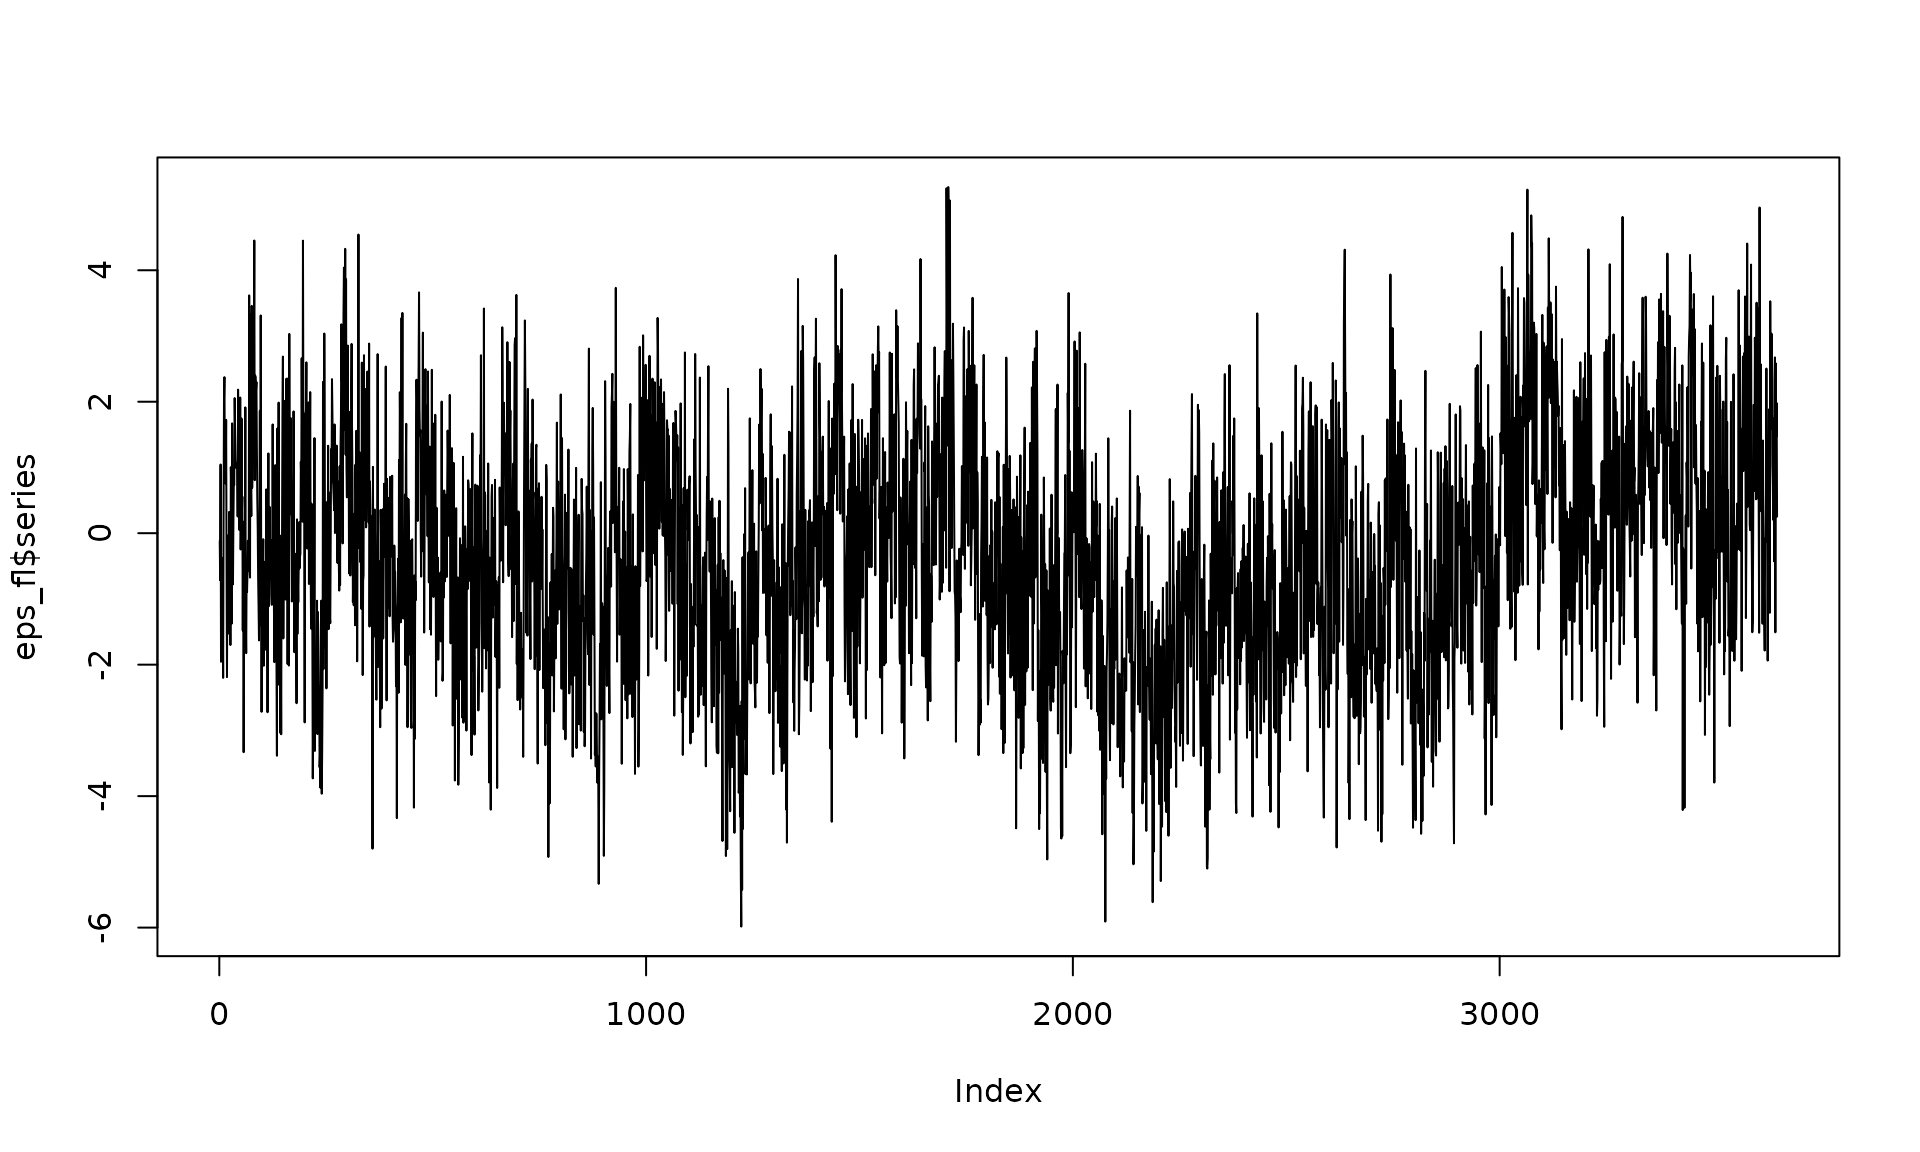
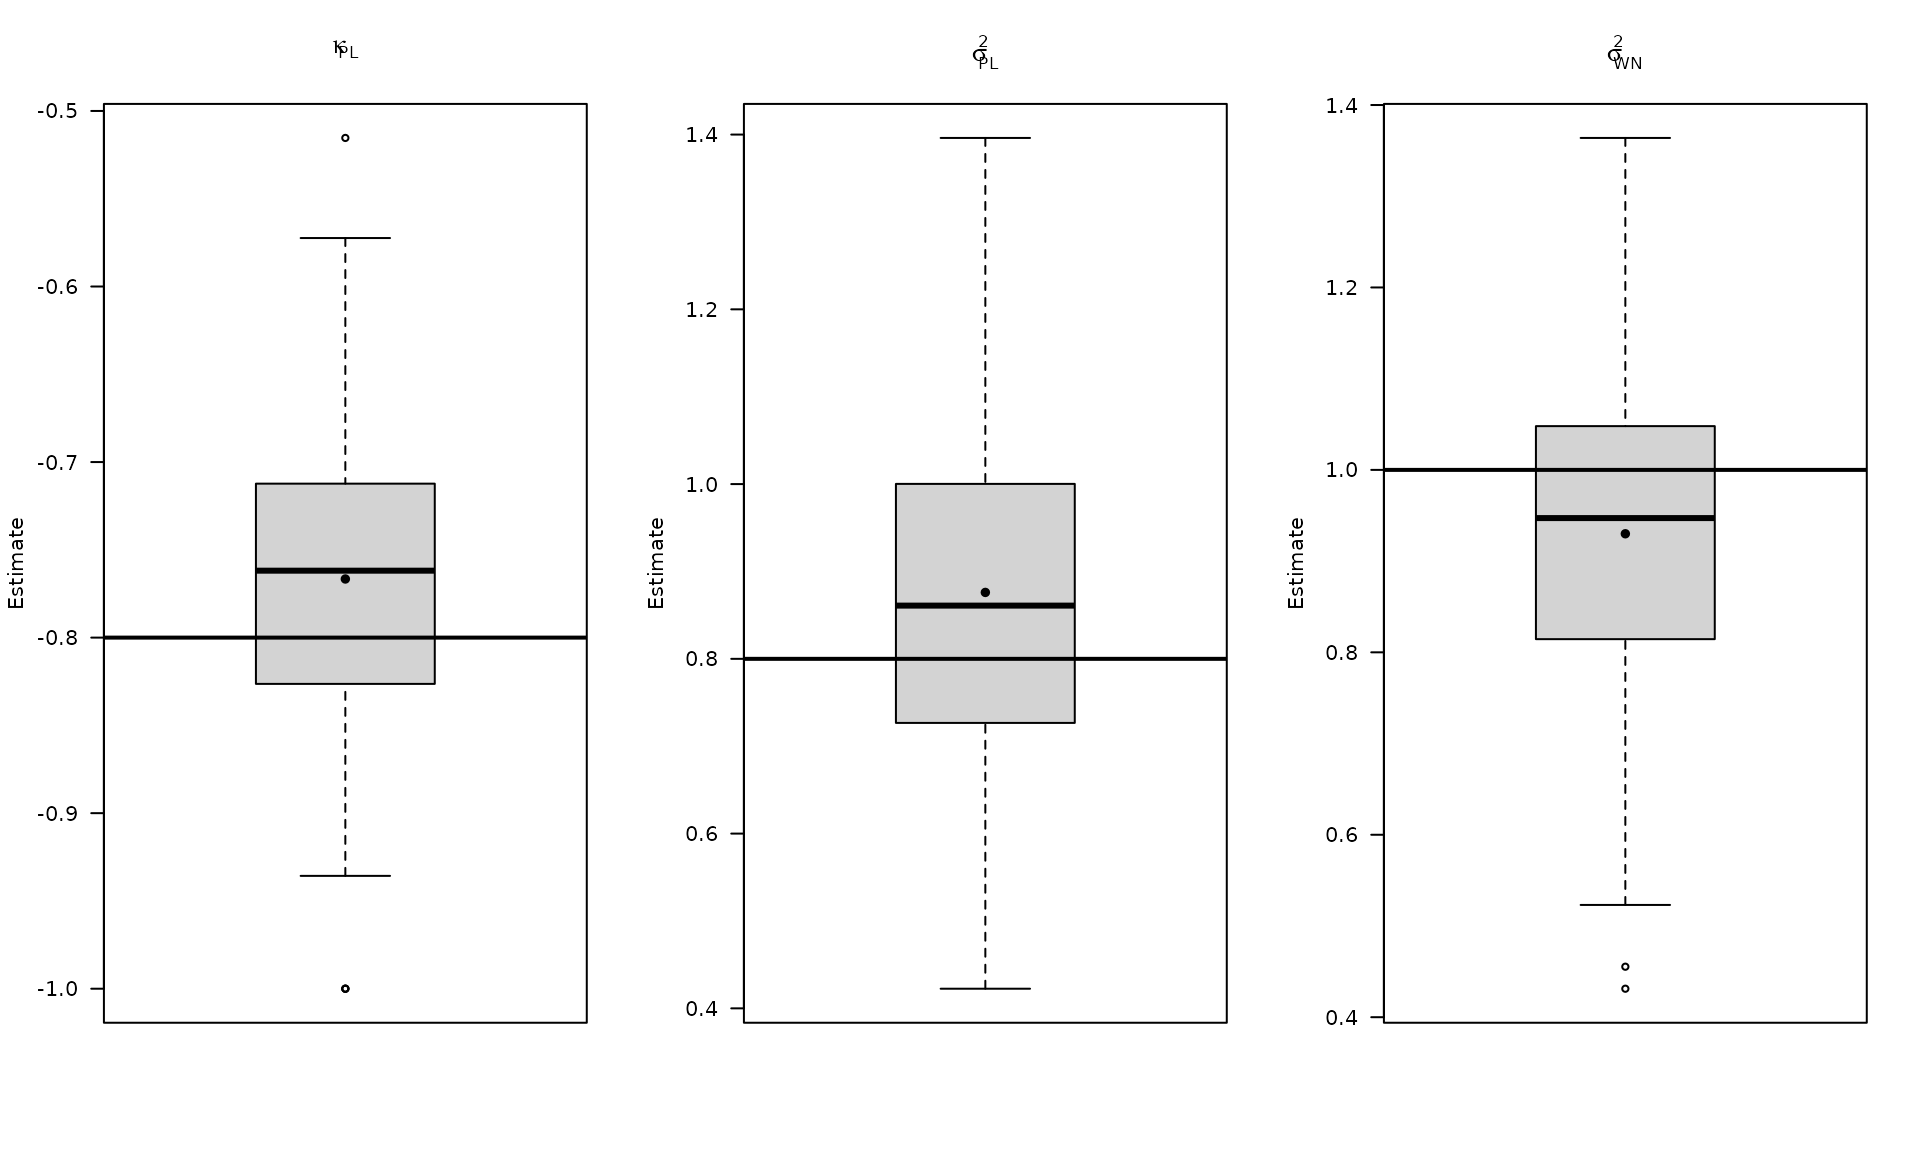
Deploying to gh-pages from @ SMAC-Group/gmwmx2@18844b9f25a405bf148cac6909631eafe44f7152 🚀

diff --git a/articles/estimate_geodetic_time_series_from_ngl.html b/articles/estimate_geodetic_time_series_from_ngl.html
@@ -401,7 +401,7 @@ specific component (North, East or Vertical) of one station.</p>
 <span><span class="co">##        Estimated parameters : kappa = -0.7261, sigma2 = 3.75e-06 </span></span>
 <span><span class="co">## </span></span>
 <span><span class="co">## Runtime (seconds)</span></span>
-<span><span class="co">##   Total              : 1.0559</span></span></code></pre>
+<span><span class="co">##   Total              : 0.8868</span></span></code></pre>
 </div>
 <div class="section level2">
 <h2 id="plot-estimated-model">Plot estimated model<a class="anchor" aria-label="anchor" href="#plot-estimated-model"></a>
@@ -452,7 +452,7 @@ specific component (North, East or Vertical) of one station.</p>
 <span><span class="co">##        Estimated parameters : sigma2 = 2.062e-06 </span></span>
 <span><span class="co">## </span></span>
 <span><span class="co">## Runtime (seconds)</span></span>
-<span><span class="co">##   Total              : 0.5581</span></span></code></pre>
+<span><span class="co">##   Total              : 0.5082</span></span></code></pre>
 <div class="sourceCode" id="cb10"><pre class="downlit sourceCode r">
 <code class="sourceCode R"><span><span class="fu"><a href="https://rdrr.io/r/graphics/plot.default.html" class="external-link">plot</a></span><span class="op">(</span><span class="va">fit2</span><span class="op">)</span></span></code></pre></div>
 <p><img src="estimate_geodetic_time_series_from_ngl_files/figure-html/unnamed-chunk-8-1.png" class="r-plt" alt="" width="960" style="display: block; margin: auto;"></p>
@@ -499,7 +499,7 @@ specific component (North, East or Vertical) of one station.</p>
 <span><span class="co">##        Estimated parameters : phi = 0.782, sigma2 = 9.644e-07 </span></span>
 <span><span class="co">## </span></span>
 <span><span class="co">## Runtime (seconds)</span></span>
-<span><span class="co">##   Total              : 0.2048</span></span></code></pre>
+<span><span class="co">##   Total              : 0.1926</span></span></code></pre>
 <div class="sourceCode" id="cb13"><pre class="downlit sourceCode r">
 <code class="sourceCode R"><span><span class="fu"><a href="https://rdrr.io/r/graphics/plot.default.html" class="external-link">plot</a></span><span class="op">(</span><span class="va">fit3</span><span class="op">)</span></span></code></pre></div>
 <p><img src="estimate_geodetic_time_series_from_ngl_files/figure-html/unnamed-chunk-9-1.png" class="r-plt" alt="" width="960" style="display: block; margin: auto;"></p>

diff --git a/articles/estimate_linear_models_with_dependent_errors.html b/articles/estimate_linear_models_with_dependent_errors.html
@@ -281,7 +281,7 @@ composed of white noise and autoregressive process of order 1.</p>
 <span><span class="co">##        Estimated parameters : phi = 0.9563, sigma2 = 0.8911 </span></span>
 <span><span class="co">## </span></span>
 <span><span class="co">## Runtime (seconds)</span></span>
-<span><span class="co">##   Total              : 1.5987</span></span></code></pre>
+<span><span class="co">##   Total              : 1.0713</span></span></code></pre>
 <p>To assess uncertainty, we run a Monte Carlo simulation and check
 empirical coverage of the confidence intervals for the trend.</p>
 </div>
@@ -424,7 +424,7 @@ empirical coverage of the confidence intervals for the trend.</p>
 <span><span class="co">##        Estimated parameters : kappa = -0.834, sigma2 = 0.4764 </span></span>
 <span><span class="co">## </span></span>
 <span><span class="co">## Runtime (seconds)</span></span>
-<span><span class="co">##   Total              : 0.5597</span></span></code></pre>
+<span><span class="co">##   Total              : 0.4490</span></span></code></pre>
 </div>
 <div class="section level3">
 <h3 id="monte-carlo-simulation-1">Monte Carlo simulation<a class="anchor" aria-label="anchor" href="#monte-carlo-simulation-1"></a>
@@ -567,7 +567,7 @@ but is handled explicitly by <code><a href="../reference/flicker.html">flicker()
 <span><span class="co">##        Estimated parameters : sigma2 = 0.8932 </span></span>
 <span><span class="co">## </span></span>
 <span><span class="co">## Runtime (seconds)</span></span>
-<span><span class="co">##   Total              : 1.2793</span></span></code></pre>
+<span><span class="co">##   Total              : 0.8449</span></span></code></pre>
 </div>
 <div class="section level3">
 <h3 id="monte-carlo-simulation-2">Monte Carlo simulation<a class="anchor" aria-label="anchor" href="#monte-carlo-simulation-2"></a>

diff --git a/reference/plot.gmwmx2_fit_gnss_ts_ngl.html b/reference/plot.gmwmx2_fit_gnss_ts_ngl.html
@@ -152,7 +152,7 @@
 <span class="r-out co"><span class="r-pr">#&gt;</span>        Estimated parameters : phi = 0.9803, sigma2 = 1.35e-07 </span>
 <span class="r-out co"><span class="r-pr">#&gt;</span> </span>
 <span class="r-out co"><span class="r-pr">#&gt;</span> Runtime (seconds)</span>
-<span class="r-out co"><span class="r-pr">#&gt;</span>   Total              : 2.8155 </span>
+<span class="r-out co"><span class="r-pr">#&gt;</span>   Total              : 2.4830 </span>
 <span class="r-in"><span><span class="fu"><a href="https://rdrr.io/r/graphics/plot.default.html" class="external-link">plot</a></span><span class="op">(</span><span class="va">fit1</span><span class="op">)</span></span></span>
 <span class="r-plt img"><img src="plot.gmwmx2_fit_gnss_ts_ngl-1.png" alt="" width="700" height="433"></span>
 <span class="r-in"><span><span class="co"># fit station with WN and PL</span></span></span>
@@ -196,7 +196,7 @@
 <span class="r-out co"><span class="r-pr">#&gt;</span>        Estimated parameters : kappa =    -1, sigma2 = 9.707e-07 </span>
 <span class="r-out co"><span class="r-pr">#&gt;</span> </span>
 <span class="r-out co"><span class="r-pr">#&gt;</span> Runtime (seconds)</span>
-<span class="r-out co"><span class="r-pr">#&gt;</span>   Total              : 1.8539 </span>
+<span class="r-out co"><span class="r-pr">#&gt;</span>   Total              : 1.7026 </span>
 <span class="r-in"><span><span class="fu"><a href="https://rdrr.io/r/graphics/plot.default.html" class="external-link">plot</a></span><span class="op">(</span><span class="va">fit2</span><span class="op">)</span></span></span>
 <span class="r-plt img"><img src="plot.gmwmx2_fit_gnss_ts_ngl-2.png" alt="" width="700" height="433"></span>
 <span class="r-in"><span><span class="co"># fit station with WN and Matern</span></span></span>
@@ -240,7 +240,7 @@
 <span class="r-out co"><span class="r-pr">#&gt;</span>        Estimated parameters : sigma2 = 3.509e-06, lambda = 0.01456, alpha = 0.8928 </span>
 <span class="r-out co"><span class="r-pr">#&gt;</span> </span>
 <span class="r-out co"><span class="r-pr">#&gt;</span> Runtime (seconds)</span>
-<span class="r-out co"><span class="r-pr">#&gt;</span>   Total              : 2.4010 </span>
+<span class="r-out co"><span class="r-pr">#&gt;</span>   Total              : 2.1346 </span>
 <span class="r-in"><span><span class="fu"><a href="https://rdrr.io/r/graphics/plot.default.html" class="external-link">plot</a></span><span class="op">(</span><span class="va">fit3</span><span class="op">)</span></span></span>
 <span class="r-plt img"><img src="plot.gmwmx2_fit_gnss_ts_ngl-3.png" alt="" width="700" height="433"></span>
 <span class="r-in"><span></span></span>

diff --git a/reference/summary.fit_gnss_ts_ngl.html b/reference/summary.fit_gnss_ts_ngl.html
@@ -140,7 +140,7 @@
 <span class="r-out co"><span class="r-pr">#&gt;</span>  P(Z_{i+1} = 1 | Z_{i} = 0): 0.10000000</span>
 <span class="r-out co"><span class="r-pr">#&gt;</span>  \hat{E[Z]}: 0.99355255</span>
 <span class="r-out co"><span class="r-pr">#&gt;</span> -------------------------------------------------------------</span>
-<span class="r-out co"><span class="r-pr">#&gt;</span> Running time: 0.25 seconds</span>
+<span class="r-out co"><span class="r-pr">#&gt;</span> Running time: 0.24 seconds</span>
 <span class="r-out co"><span class="r-pr">#&gt;</span> -------------------------------------------------------------</span>
 <span class="r-in"><span><span class="fu"><a href="https://rdrr.io/r/base/summary.html" class="external-link">summary</a></span><span class="op">(</span><span class="va">fit1</span>, scale_parameters <span class="op">=</span> <span class="cn">TRUE</span><span class="op">)</span></span></span>
 <span class="r-out co"><span class="r-pr">#&gt;</span> Summary of Estimated Model</span>
@@ -170,7 +170,7 @@
 <span class="r-out co"><span class="r-pr">#&gt;</span>  P(Z_{i+1} = 1 | Z_{i} = 0): 0.10000000</span>
 <span class="r-out co"><span class="r-pr">#&gt;</span>  \hat{E[Z]}: 0.99355255</span>
 <span class="r-out co"><span class="r-pr">#&gt;</span> -------------------------------------------------------------</span>
-<span class="r-out co"><span class="r-pr">#&gt;</span> Running time: 0.25 seconds</span>
+<span class="r-out co"><span class="r-pr">#&gt;</span> Running time: 0.24 seconds</span>
 <span class="r-out co"><span class="r-pr">#&gt;</span> -------------------------------------------------------------</span>
 <span class="r-in"><span><span class="va">fit2</span> <span class="op">&lt;-</span> <span class="fu"><a href="gmwmx2.html">gmwmx2</a></span><span class="op">(</span><span class="va">x</span>, n_seasonal <span class="op">=</span> <span class="fl">2</span>, component <span class="op">=</span> <span class="st">"N"</span>, stochastic_model <span class="op">=</span> <span class="st">"wn + fl"</span><span class="op">)</span></span></span>
 <span class="r-in"><span><span class="fu"><a href="https://rdrr.io/r/base/summary.html" class="external-link">summary</a></span><span class="op">(</span><span class="va">fit2</span><span class="op">)</span></span></span>
@@ -200,7 +200,7 @@
 <span class="r-out co"><span class="r-pr">#&gt;</span>  P(Z_{i+1} = 1 | Z_{i} = 0): 0.10000000</span>
 <span class="r-out co"><span class="r-pr">#&gt;</span>  \hat{E[Z]}: 0.99355255</span>
 <span class="r-out co"><span class="r-pr">#&gt;</span> -------------------------------------------------------------</span>
-<span class="r-out co"><span class="r-pr">#&gt;</span> Running time: 0.92 seconds</span>
+<span class="r-out co"><span class="r-pr">#&gt;</span> Running time: 0.9 seconds</span>
 <span class="r-out co"><span class="r-pr">#&gt;</span> -------------------------------------------------------------</span>
 <span class="r-in"><span></span></span>
 </code></pre></div>